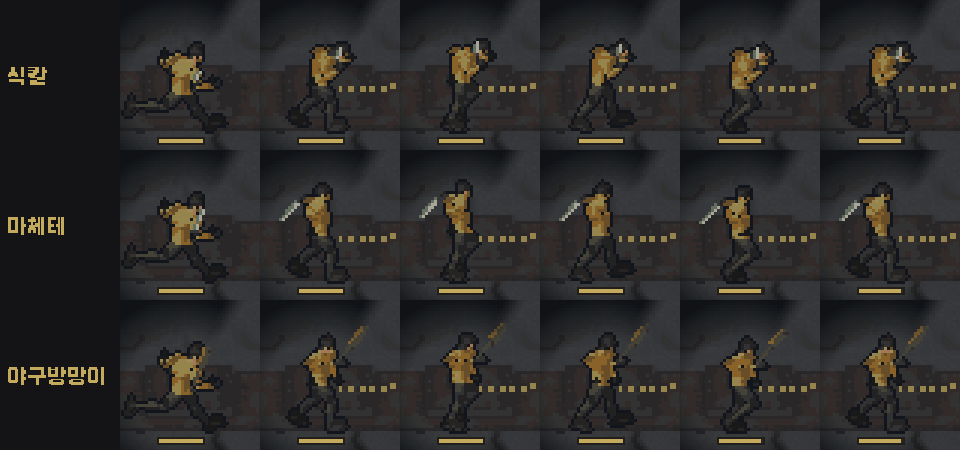
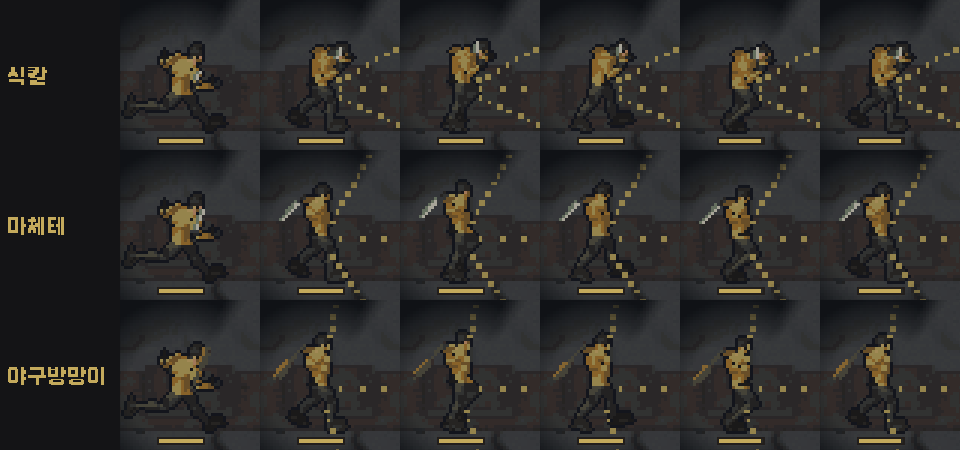
밟기 판정 수정, 피폭체마다 다른 걸음, 무기별 장단점(소리·휘청·머리), 공격 범위 전체 점선, 방망이·파이프는 내려치기, 무기 배낭 칸

diff --git a/src/play.py b/src/play.py
@@ -232,7 +232,21 @@ class Game:
             part = weapons.path_part(z, py_ - z.y)
             if part and (best is None or t < best[0]):
                 best = (t, z, part)
-        return (best[1], best[2]) if best else None
+        if best:
+            return best[1], best[2]
+        # Nothing standing on the path: a crawler inside the range and its arc is the one, marked
+        # "밟기" (2026-11-16 "밟기 판정이 이상함": aimed at it at chest height it was stomped
+        # without a target and the foot hit nothing).
+        ang = atan2(dy, dx)
+        crawlers = []
+        for z in seen:
+            if not z.prone:
+                continue
+            d = hypot(z.x - sx0, z.y + 6 - sy0)
+            off = abs((atan2(z.y + 6 - sy0, z.x - sx0) - ang + pi) % (2 * pi) - pi)
+            if d <= reach and off <= w["arc"]:
+                crawlers.append((d, z))
+        return (min(crawlers, key=lambda c: c[0])[1], "ground") if crawlers else None
 
     def press(self, sx, sy):
         """Left button down: raise the weapon and hold it, aiming with the cursor."""
@@ -276,7 +290,7 @@ class Game:
         self.bag[weapons.item(held)] = self.bag.get(weapons.item(held), 0) + 1
         hero.weapon = weapons.WEAPONS[key]
         hero.ready = None
-        self.message = f"{supply_rules.with_object_particle(hero.weapon['name'])} 들었다"
+        self.message = f"{supply_rules.with_object_particle(hero.weapon['name'])} 들었다 · {hero.weapon['good']}"
         self.sounds.play("pickup", 0.6)
 
     def next_weapon(self):
@@ -527,10 +541,11 @@ class Game:
                     part = aim[1] if aim is not None and aim[0] is z else "torso"
                     part = "torso" if part == "ground" else part
                     damage = weapon["damage"][part]
-                    if part == "head" and not hero.slash.get("held"):
+                    if part == "head" and not hero.slash.get("held") and not weapon.get("head_always"):
                         damage = max(1, damage - weapons.HEAD_QUICK)   # the head: aim it to make it count
                     was_crawling = z.prone
-                    if opening is None and not z.hurt(hero.x, hero.y, damage, part, weapon["push"]):
+                    if opening is None and not z.hurt(hero.x, hero.y, damage, part, weapon["push"],
+                                                      weapon.get("stagger", False)):
                         self.wound_fx(z, zx, zy, sx, sy)          # it takes the blow and keeps coming
                         if z.prone and not was_crawling:
                             self.message = "다리를 베었다! 이제 기어 온다 · 밟아서 끝내라"
@@ -563,7 +578,7 @@ class Game:
 
         if self.senses and not hero.dead:          # the hero's noise: steps, rolls, slashes
             if hero.slash and hero.slash["time"] <= real_dt:
-                self.make_noise(NOISE_STEP if hero.slash.get("quiet") else NOISE_SLASH)
+                self.make_noise(NOISE_STEP if hero.slash.get("quiet") else hero.slash["weapon"].get("noise", NOISE_SLASH))
             elif hero.roll > 0 and hero.roll >= ROLL_TIME - real_dt:
                 self.make_noise(NOISE_ROLL)
             elif hero.moving:
@@ -732,14 +747,21 @@ class Game:
         ang = atan2(ty - sy, tx - sx)
         length = weapons.attack_range(w)                   # exactly the range the hit uses
         step = 6
-        for i in range(2, int(length // step) + 1):        # the path: a dotted line
-            px_, py_ = sx + cos(ang) * i * step - cx, sy + sin(ang) * i * step - cy
-            pico2d.draw_rectangle(px_ - 1, py_ - 1, px_ + 1, py_ + 1, *colour, filled=True)
-        n = max(2, int(length * w["arc"] / step))          # the arc it sweeps, at the end, dot every ~6
+
+        def dot(x, y, size=1):
+            pico2d.draw_rectangle(x - size - cx, y - size - cy, x + size - cx, y + size - cy, *colour, filled=True)
+
+        # the whole area the blow covers (2026-11-16 "공격 범위에 맞춰서 점선을"): both edges
+        # and the far arc, dotted; the middle line toward the cursor a little brighter
+        for edge in (-w["arc"], w["arc"]):
+            for i in range(2, int(length // step) + 1):
+                dot(sx + cos(ang + edge) * i * step, sy + sin(ang + edge) * i * step)
+        n = max(2, int(length * w["arc"] / step))
         for k in range(-n, n + 1):
             a = ang + k * w["arc"] / n
-            ex, ey = sx + cos(a) * length - cx, sy + sin(a) * length - cy
-            pico2d.draw_rectangle(ex - 1, ey - 1, ex + 1, ey + 1, *colour, filled=True)
+            dot(sx + cos(a) * length, sy + sin(a) * length)
+        for i in range(2, int(length // step) + 1, 2):    # the aim line
+            dot(sx + cos(ang) * i * step, sy + sin(ang) * i * step)
         if aim is not None:                               # the part it goes for, on the body
             z = aim[0]
             if z.prone:                                   # a crawler: all of it, on the ground

diff --git a/src/weapons.py b/src/weapons.py
@@ -40,27 +40,39 @@ WEAPONS = {
         "damage": {"head": 3, "torso": 1, "legs": 1},   # an aware infected takes 2-3
         "stamina": 14.0,
         "push": 55,                 # px/s a blow that does not kill knocks it back
+        "noise": 230,               # px the blow is heard
+        "stagger": False,           # a torso blow makes it reel (open), not just flinch
+        "head_always": False,       # a quick (not held) blow to the head still counts in full
+        "good": "균형·기는 놈까지", "bad": "큰 강점 없음",
     },
     "knife": {                      # quick, short, precise: a stab to the head ends it
         "name": "식칼", "style": "stab", "pose": "stab", "sprite": "knife",
         "time": 0.22 * TEMPO, "hit": 0.09 * TEMPO, "cooldown": 0.04, "lunge": 18.0,
         "reach": 44.0, "arc": 0.45,
         "damage": {"head": 3, "torso": 1, "legs": 1},
-        "stamina": 8.0, "push": 25,
+        "stamina": 6.0, "push": 25,
+        "noise": 70, "stagger": False, "head_always": False,
+        "good": "빠름·조용·기력 적게", "bad": "짧고 좁음",
     },
+    # bat and pipe use the overhead chop like the machete and axe (2026-11-16 "야구 방망이 모션이
+    # 이상함, 이런 종류의 무기를 도끼나 마체테처럼 똑같이 통일"): their own traits are in the numbers
     "bat": {                        # wide and pushing, weak: keeps them off
-        "name": "야구방망이", "style": "swingh", "pose": "swingh", "sprite": "bat",
+        "name": "야구방망이", "style": "chop", "pose": "chop", "sprite": "bat",
         "time": 0.52 * TEMPO, "hit": 0.27 * TEMPO, "cooldown": 0.2, "lunge": 16.0,
         "reach": 62.0, "arc": 1.35,
         "damage": {"head": 2, "torso": 1, "legs": 1},
         "stamina": 16.0, "push": 150,
+        "noise": 260, "stagger": True, "head_always": False,
+        "good": "넓게·몸통 치면 휘청", "bad": "피해 약함·시끄러움",
     },
     "pipe": {                       # like the bat, longer and heavier
-        "name": "쇠파이프", "style": "swingh", "pose": "swingh", "sprite": "pipe",
+        "name": "쇠파이프", "style": "chop", "pose": "chop", "sprite": "pipe",
         "time": 0.6 * TEMPO, "hit": 0.31 * TEMPO, "cooldown": 0.26, "lunge": 16.0,
         "reach": 66.0, "arc": 1.3,
         "damage": {"head": 2, "torso": 1, "legs": 2},
         "stamina": 18.0, "push": 170,
+        "noise": 300, "stagger": True, "head_always": False,
+        "good": "가장 멀리·휘청·다리 2", "bad": "느림·가장 시끄러움",
     },
     "axe": {                        # slow and costly, but even the torso takes two
         "name": "소방 도끼", "style": "chop", "pose": "chop", "sprite": "axe",
@@ -68,12 +80,17 @@ WEAPONS = {
         "reach": 60.0, "arc": 0.9,
         "damage": {"head": 3, "torso": 2, "legs": 2},
         "stamina": 22.0, "push": 80,
+        "noise": 260, "stagger": False, "head_always": True,
+        "good": "머리 바로 한 방·몸통 2", "bad": "가장 느림·기력 많이",
     },
 }
 DEFAULT = "machete"
 # Carried weapons are bag items "w:<key>" with a weight, so they take cells on the bag's sheet
 # (2026-11-16 "무기를 인벤토리나 어디를 통해서 바꿀 수 있게"); the weapon in hand weighs nothing.
 WEIGHT = {"machete": 0.4, "knife": 0.2, "bat": 0.6, "pipe": 0.6, "axe": 0.8}
+# Weapons are long: on the bag's sheet they lie flat, wide and low (cells >= weight / 0.1), so a
+# full bag still fits them (a 3 x 3 axe left no room for a bat, which was squeezed into one cell).
+SHAPE = {"knife": (2, 1), "machete": (4, 1), "bat": (3, 2), "pipe": (3, 2), "axe": (4, 2)}
 STYLE_TEXT = {"chop": "내려치기 · 바닥에 기는 놈에게도 닿는다", "stab": "찌르기 · 빠르고 짧다",
               "swingh": "가로 휘두르기 · 넓고 밀어낸다"}
 

diff --git a/src/infected.py b/src/infected.py
@@ -52,6 +52,9 @@ COUNTER_PUSH = 290              # px/s it is thrown back (about 40 px)
 # have lost the use of their legs and drag themselves along on the ground - slow, always helpless
 # (the hero stamps on them), biting at the ankles if they are left to reach him.
 CRAWLER_SHARE = 0.25            # share of infected that crawl
+# Pace (2026-11-16 "좀비별로 이동 속도를 좀 다르게"): each infected walks slow, normal or fast; the
+# walk cycle follows the distance, so the legs show it. (share, speed share)
+PACES = (("slow", 0.25, 0.7), ("normal", 0.55, 1.0), ("fast", 0.2, 1.4))
 CRAWL_SPEED = 0.18              # share of the walking speed (2026-11-16 "속도가 많이 느려지게": was 0.35)
 CRAWL_REACH = ZOMBIE_REACH - 6  # px: close enough to bite at the ankles
 
@@ -77,6 +80,12 @@ class Zombie:
         self.push = (0.0, 0.0)
         self.health = random.randint(*HITS)
         self.prone = crawler         # a crawler: on the ground, moves and bites from there
+        roll, self.pace = random.random(), 1.0
+        for name, share, pace in PACES:
+            if roll < share:
+                self.pace = pace
+                break
+            roll -= share
         self.on_ground = False       # it was lying down when it died
 
     @property
@@ -85,7 +94,7 @@ class Zombie:
 
     @property
     def speed(self):
-        return ZOMBIE_SPEED * (CRAWL_SPEED if self.prone else 1.0)
+        return ZOMBIE_SPEED * (CRAWL_SPEED if self.prone else self.pace)
 
     @property
     def reach(self):
@@ -119,7 +128,7 @@ class Zombie:
         self.stagger_time = self.timer
         return countered
 
-    def hurt(self, from_x, from_y, damage=1, part="torso", push=HIT_PUSH):
+    def hurt(self, from_x, from_y, damage=1, part="torso", push=HIT_PUSH, stagger=False):
         """A blow on an aware infected (weapons.py: damage by the part it lands on): True when it
         was more than it could take. Each part does its own thing (2026-11-16 "다리를 노릴 이유"):
         - legs: always takes them, whatever its health - it crawls from then on
@@ -133,7 +142,10 @@ class Zombie:
             self.state, self.seen_time = "chase", SEEN_BEFORE_STRIKE
             self.target, self.memory = (from_x, from_y), MEMORY
             return False
-        if part == "torso":
+        if part == "torso" and stagger:              # a heavy swing: it reels, open to the next blow
+            self.reel(from_x, from_y, push, "stagger", STAGGER_TIME)
+            self.stagger_time = self.timer
+        elif part == "torso":
             self.reel(from_x, from_y, push, "flinch", FLINCH_TIME)
         return False
 

diff --git a/src/bag_grid.py b/src/bag_grid.py
@@ -16,7 +16,12 @@ NEAR_GRID = (3, 2)
 
 
 def shape(kind):
-    """(columns, rows) a thing takes: 1 -> 1x1, 2 -> 2x1, 3 -> 3x1, 4 -> 2x2, more -> squarish."""
+    """(columns, rows) a thing takes: 1 -> 1x1, 2 -> 2x1, 3 -> 3x1, 4 -> 2x2, more -> squarish;
+    weapons lie flat in their own shape (weapons.SHAPE)."""
+    import weapons
+    key = weapons.key_of(kind)
+    if key:
+        return weapons.SHAPE[key]
     n = max(1, round(weight_of(kind) / CELL_WEIGHT))
     if n <= 3:
         return n, 1
@@ -49,10 +54,11 @@ def pack(things, grid):
 
 
 def bag_things(bag, shown=lambda kind: True):
-    """Every unit in the bag: supplies in the order supplies.KINDS lists them, then weapons."""
+    """Every unit in the bag (supplies, then weapons), the biggest first."""
     things = [(kind, None) for kind in KINDS if shown(kind) for _ in range(bag.get(kind, 0))]
     things += [(kind, None) for kind in sorted(bag) if kind.startswith("w:") for _ in range(bag[kind])]
-    return things
+    # the biggest first, so small things fill the gaps instead of breaking up the room
+    return sorted(things, key=lambda t: -(shape(t[0])[0] * shape(t[0])[1]))
 
 
 def at(placed, col, row):

diff --git a/src/hud.py b/src/hud.py
@@ -118,6 +118,12 @@ def draw_status(game):
     that ask for something - bleeding (bandage), slowed - plus sneaking. Wounds are in the bag."""
     hero, cond = game.hero, game.condition
     x, y = 14, 312
+    w = hero.weapon                                     # the weapon in hand, by the health
+    img = px.image(f"../weapons/{w['sprite']}.png")
+    wx = 160                                            # between the health bar and the quick slots
+    px.blit(f"../weapons/{w['sprite']}.png", wx, y + 6, 2)
+    px.text(wx + img.w * 2 + 4, y + 2, w["name"], LIGHT)
+    px.text(wx + img.w * 2 + 4, y + 16, "Q 바꾸기", GREY_C)
     pct = max(0, round(hero.hp / HERO_HP * 100))
     px.text(x, y, f"{pct}", LIGHT if pct > 50 else ORANGE if pct > 25 else BLOOD, bold=True, scale=2)
     shown, trail = health_shares(game)

diff --git a/src/supplies.py b/src/supplies.py
@@ -40,7 +40,7 @@ def item_text(kind):
     if not key:
         return KINDS[kind][3]
     w = weapons.WEAPONS[key]
-    return f"{weapons.STYLE_TEXT[w['style']]} · 속도 {weapons.speed_word(w)} · Enter로 들기"
+    return f"속도 {weapons.speed_word(w)} · + {w['good']} · - {w['bad']}"
 
 
 def bag_weight(bag):

diff --git a/PRD.md b/PRD.md
@@ -19,6 +19,23 @@
 
 > **기획 고정 문서:** [DESIGN_LOCK.md](docs/planning/DESIGN_LOCK.md)(2026-11-13)가 기둥 3개·확정·정할 것·보류함·바꾸는 규칙을 담는다. 이 PRD와 어긋나면 고정 문서가 우선이고 PRD를 고친다.
 
+- **v7.3 (2026-11-16) — 밟기 판정 수정, 피폭체마다 다른 걸음, 무기별 장단점, 공격 범위 전체를 점선으로, 방망이·파이프는 내려치기.** 사용자 "밟기 판정이 이상함", "좀비별로 이동 속도를 다르게", "무기별로 장단점이 체감이 잘 안 됨", "공격 범위에 맞춰서 점선을 표시", "야구 방망이 모션이 이상함, 이런 종류의 무기를 도끼나 마체테처럼 똑같이 통일".
+  - **밟기:** 기는 놈을 가운데 높이로 겨누면 표시 없이 밟기가 나가 허공을 밟던 문제를 고쳤다. 경로에 서 있는 놈이 없으면, 범위·방향 안의 기는 놈을 '밟기'로 표시하고 그놈을 밟는다(16가지 겨누는 방법 모두 처치).
+  - **걸음:** 피폭체마다 느림(70%, 약 25%), 보통(55%), 빠름(140%, 약 20%)이다. 걷는 그림은 거리를 따라가서 다리도 그만큼 빨라진다.
+  - **무기별 장단점:**
+
+    | 무기 | 강점 | 약점 |
+    |---|---|---|
+    | 식칼 | 빠름, 조용(소리 70), 기력 6 | 짧고 좁음 |
+    | 마체테 | 균형, 기는 놈까지 | 큰 강점 없음 |
+    | 야구방망이 | 넓게, 몸통 치면 크게 휘청(무방비 → 한 방) | 피해 약함, 시끄러움 |
+    | 쇠파이프 | 가장 멀리, 휘청, 다리 2 | 느림, 가장 시끄러움 |
+    | 소방 도끼 | 머리는 바로 쳐도 한 방, 몸통 2 | 가장 느림, 기력 많이 |
+
+    배낭 설명 줄과 줍는 메시지에 장단점이 나오고, 화면 체력 옆에 든 무기가 보인다.
+  - **점선:** 공격 범위의 양쪽 가장자리와 끝 호를 모두 점선으로 그려, 맞는 영역 전체가 보인다.
+  - **방망이·파이프:** 가로 휘두르기 대신 마체테·도끼와 같은 내려치기 동작을 쓴다(바닥의 기는 놈에게도 닿음). 특징은 숫자(범위·휘청·밀어냄)로만 남긴다.
+  - **배낭 칸:** 무기는 납작한 모양(식칼 2×1, 마체테 4×1, 방망이·파이프 3×2, 도끼 4×2)이고, 큰 것부터 넣는다(작은 물건이 먼저 들어가 방망이가 한 칸에 끼던 문제).
 - **v7.2 (2026-11-16) — 무기를 든 채 걷기.** 사용자 "좌클릭 차징할 때 하반신이 가만히 있는데 애니메이션을 적절한 거를 추가해야". 무기 방식별로 '걷는 다리 + 무기를 든 상체' 시트(ready_stab·ready_swingh·ready_chop)를 만들어, 누르고 있는 채로 움직이면 다리가 땅을 따라 걷는다. 무기는 손 선에 그려지므로 같은 방식의 무기는 이 시트를 함께 쓴다.
 - **v7.1 (2026-11-16) — 표시되면 맞고, 보이는 범위 = 판정 범위, 무기별 속도.** 사용자 "좌클릭을 눌렀을 때 범위 안에 들어오면 어디가 맞을지 뜨잖아요, 그때는 공격 판정이 들어가게", "보이는 점선 범위가 공격 범위랑 동일하게", "무기별로 공격 속도를 바꿔야 할 것 같음".
   - **표시되면 맞기:** 놓는 순간 부위가 표시된 피폭체는, 공격이 닿는 순간에도 범위 안에 있으면 방향 부채꼴과 상관없이 반드시 그 부위를 맞는다.

diff --git a/docs/DEVLOG.md b/docs/DEVLOG.md
@@ -255,3 +255,10 @@
   - **렌더 도구:** `render_sprites.get_action`에 'A^B:f'(A의 엉덩이·다리 + B의 f번째 자세 상체)를 넣었다. `ready_*` 시트 3개(12칸, 보폭은 걷기와 같음)를 만들고, 주인공이 무기를 든 채 움직이면 쓴다(`SheetLook.has`).
   - **고친 것:** 렌더 도구를 고치기 전에 렌더를 먼저 돌려 한 번 실패해서, 고친 뒤 다시 렌더했다.
   - **점검:** 15개를 숨긴 창으로 돌려 모두 통과했다. 식칼·마체테·방망이로 들고 걷는 화면을 확인했다(`docs/planning/ready_walk_ingame.png`).
+- **밟기 수정, 걸음, 무기 장단점, 범위 점선, 방망이 내려치기:**
+  - **밟기:** 플레이어처럼 겨누는 방법 16가지로 재현했다. 기는 놈을 가운데 높이로 겨누면 표시가 없어 밟기가 대상 없이 나갔다 → `aimed`가 서 있는 놈이 없을 때 범위·방향 안의 기는 놈을 고른다.
+  - **걸음:** `Zombie.pace`(PACES), 1000마리 중 느림 236·보통 546·빠름 218.
+  - **무기 장단점:** 무기마다 `noise`·`stagger`(몸통이면 무방비 휘청)·`head_always`·`good`/`bad`. 화면 무기 줄은 처음에 빠른 칸과 안내 문구에 겹쳐서 체력 막대와 빠른 칸 사이로 옮겼다.
+  - **점선:** 양쪽 가장자리, 끝 호, 가운데 겨눔선.
+  - **방망이·파이프:** 내려치기로. 무기 배낭 칸을 납작한 모양으로 정하고 큰 것부터 넣는다.
+  - **점검:** 17개를 숨긴 창으로 돌려 모두 통과했다.

diff --git a/PLAN.md b/PLAN.md
@@ -229,6 +229,8 @@
 
 - **2026-11-16 · 가벼운 상체 밀치기, 눕힌 상대 공격, 배낭 B** — "밀치는 동작을 하체는 거의 가만히, 상체만 가볍게" → 렌더 도구에 'A~B'(A 동작, 엉덩이·다리는 B 첫 자세로 고정) 추가, push 다시 렌더. "누워 있는 상대를 공격하는 것도 해야 할 것 같은데 어떻게 하는 게 좋을까" → 방식 제안 후 사용자 선택. "바닥 천에 늘어놓기 괜찮음, UI적으로 더 다듬고 다른 게임 조사해서 적용" → 사이드 세션 조사(docs/research/GROUND_INVENTORY_UI_RESEARCH.md) 뒤 B 시안에 칸 격자(0.1/칸, 무게만큼 차지)·무게 막대·같은 격자 근처·F/Shift+F 적용(v4_bag_b_grid.png).
 
+- **2026-11-16 · 밟기 수정, 피폭체 걸음, 무기 장단점, 범위 점선, 방망이 내려치기** — "1. 밟기 판정이 이상함 2. 좀비별로 이동 속도 다르게 3. 무기별로 장단점이 체감이 잘 안 됨 4. 공격 범위에 맞춰서 점선을", "야구 방망이 모션이 이상함, 도끼나 마체테처럼 똑같이 통일" → PRD v7.3.
+
 - **2026-11-16 · 무기를 든 채 걷기** — "좌클릭 차징할 때 하반신이 가만히 있는데 적절한 애니메이션 추가" → PRD v7.2.
 
 - **2026-11-16 · 표시되면 맞기, 보이는 범위 = 판정, 무기별 속도** — "어디가 맞을지 뜨면 그때는 공격 판정이 들어가게", "보이는 점선 범위가 공격 범위랑 동일하게", "무기별로 공격 속도를 바꿔야" → PRD v7.1.
